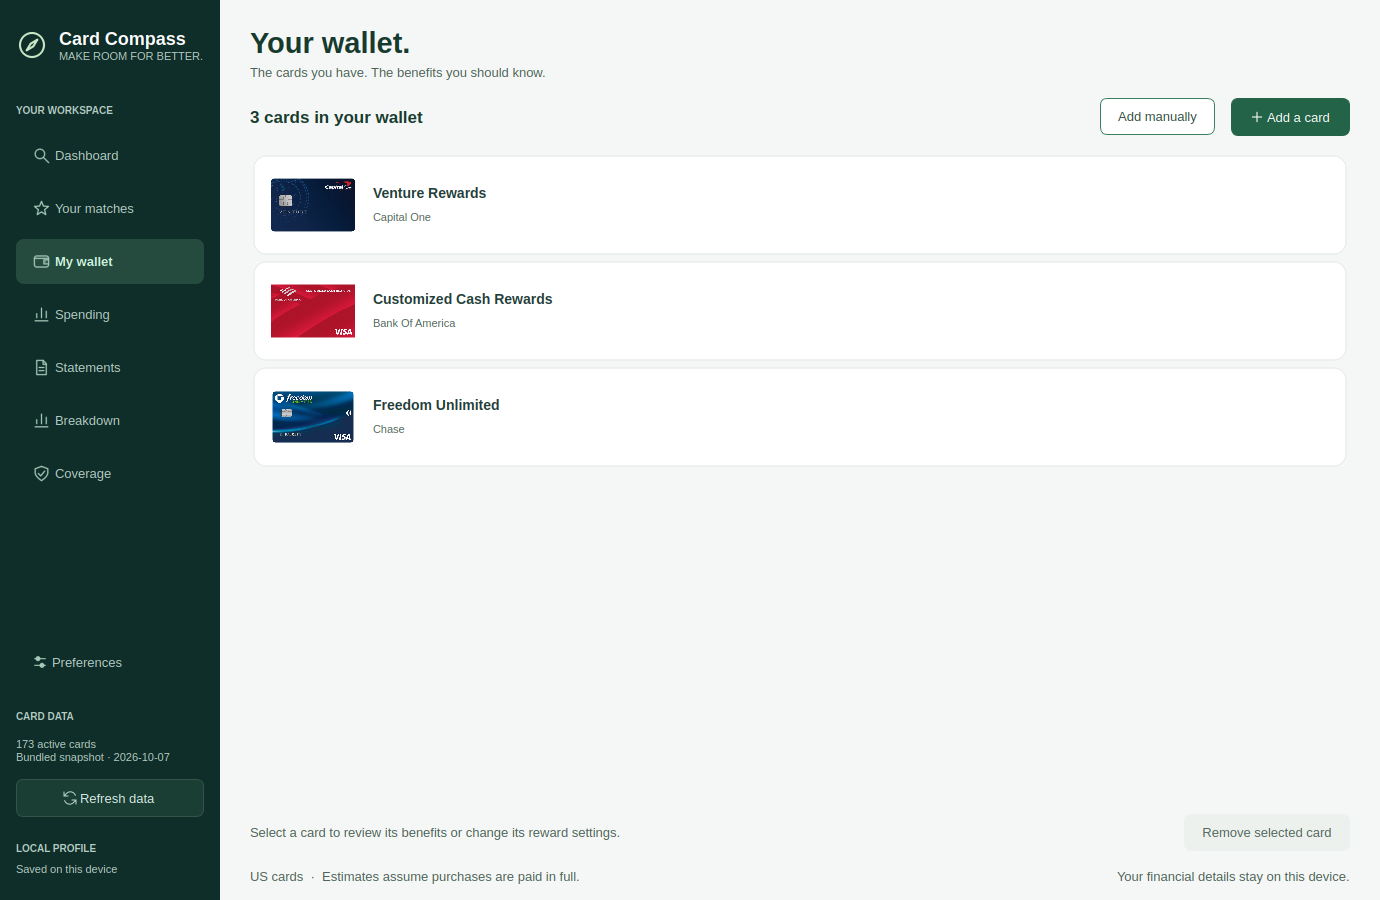
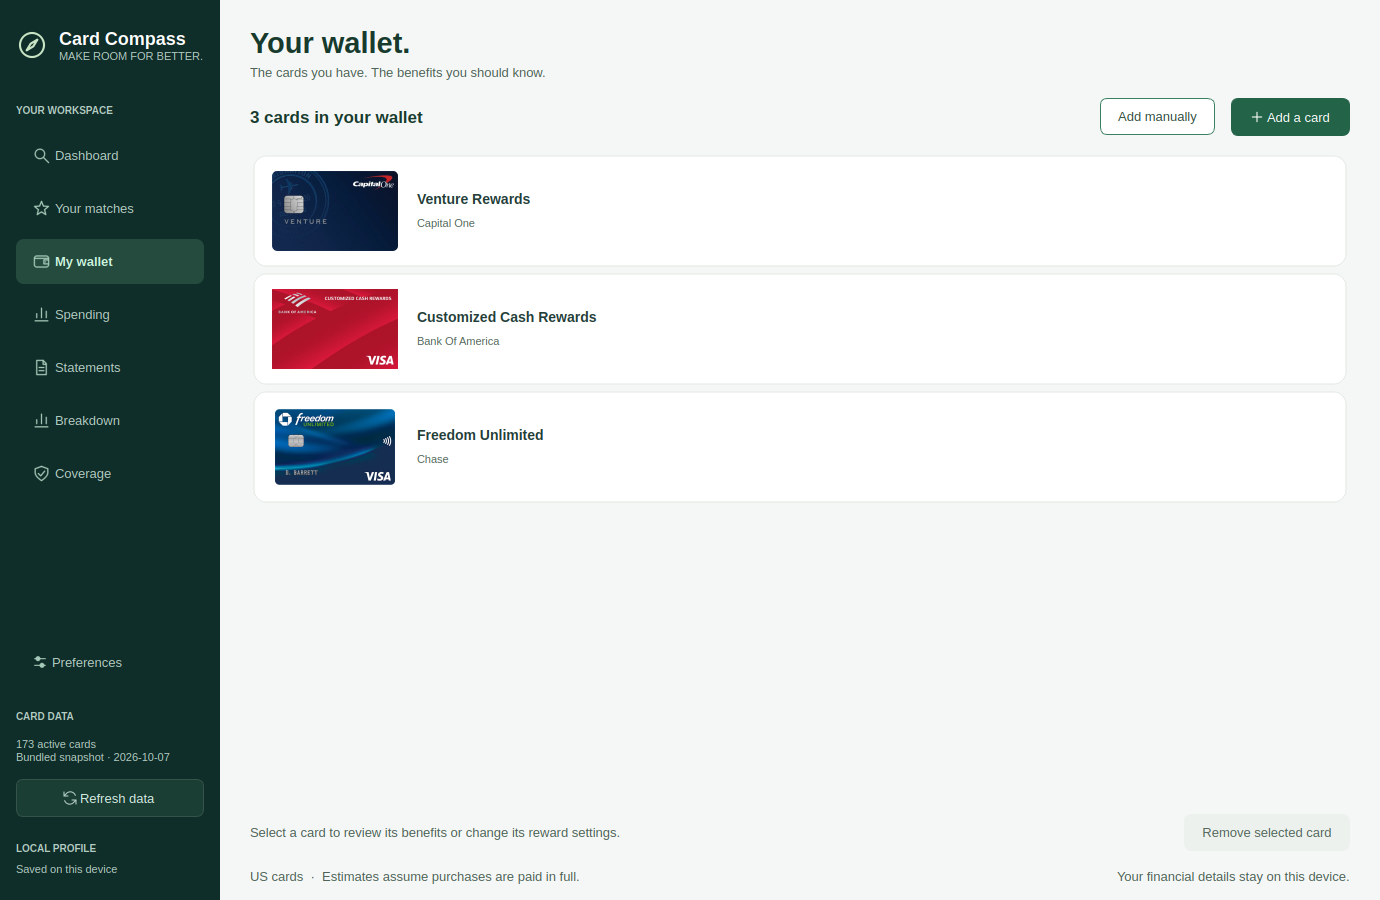
Document thumbnail quality fix and verify desktop release

Changed region(s): [[0.187, 0.3111, 0.4362, 0.56], [0.187, 0.1867, 0.3739, 0.28]]

diff --git a/IMPLEMENTATION.md b/IMPLEMENTATION.md
@@ -112,3 +112,9 @@ Existing profiles with an empty BOFA category list need an explicit selection af
 1. Ledger: safely migrate existing databases to a per-transaction one-off flag; persist reviewed flags and later changes, exclude flagged purchases/refunds from recommendation averages, and retain history, merchant rules, duplicate handling, and statement-month denominators.
 2. Native controls: Monthly Spend header toggles numeric descending/ascending order without changing category/editor bindings. Show effective Auto rates and light red/yellow/green coverage bands at 1% and 3%. Add One-off checkboxes during review and in transaction history, with a Spending shortcut. Changes update imported spending automatically; manual spending edits opt out of automatic replacement.
 3. Validation and release: 138 tests pass, including migration with existing data, one-off persistence, flight exclusion, refunds, preserved Breakdown totals, manual/imported input handling, numeric header sorting, and coverage boundaries. Inspect Spending at 1380 × 900 and 1040 × 720. The rebuilt Linux app passes dashboard, artwork, offer, statement, CSV, Breakdown, and spending-control smoke checks. `docs/spending-preview.png` uses synthetic values.
+
+## Sharper list artwork · `fix/card-thumbnail-quality`
+
+1. Rendering: resize source images smoothly to the display's physical pixel dimensions, cache thumbnail variants, and draw on pixel-aligned boundaries. This prevents fine strokes from disappearing during direct large-to-small painter scaling and supports fractional/high-density displays.
+2. Layout: enlarge list images to 128 × 80 slots with taller rows, and remove the redundant Availability column from active-card browsing.
+3. Validation and release: 144 tests pass, including a thin-stroke sampling regression at 1×, 1.25×, 1.5×, 2×, and 3× display scales, updated image content, and transparency. Inspect real card artwork in wallet and catalog layouts, including the 1040 × 720 window. Rebuild the Linux desktop executable and pass all packaged smoke checks. Update the sample-wallet preview.

diff --git a/README.md b/README.md
@@ -57,6 +57,8 @@ Real card artwork appears in browsing results, wallet entries, recommendations, 
 
 [Preview the wallet with card artwork](docs/artwork-preview.png) (sample wallet).
 
+List thumbnails use larger 128 × 80 display slots and smooth resampling to the display's physical pixel density, with cached resized images and pixel-aligned drawing. Browsing results show Card and Annual Fee; discontinued cards remain excluded, so there is no separate Availability column.
+
 ![Card-category dashboard](docs/dashboard-preview.png)
 
 For cards with one selectable rewards category, **Card settings** uses a searchable dropdown. Choose the category currently set with your issuer and click **Save**; Coverage updates using that selection and restores it when you reopen the app. Multi-category benefits retain checkbox lists. For Bank of America Customized Cash Rewards, choose **Dining** to apply its standing 3% dining rate; separate activation is not required. Its **Online Shopping** option maps to the **Online retail** spending bucket. Coverage displays effective rewards after any shared spending cap, so large spending amounts can show less than the advertised category rate.
